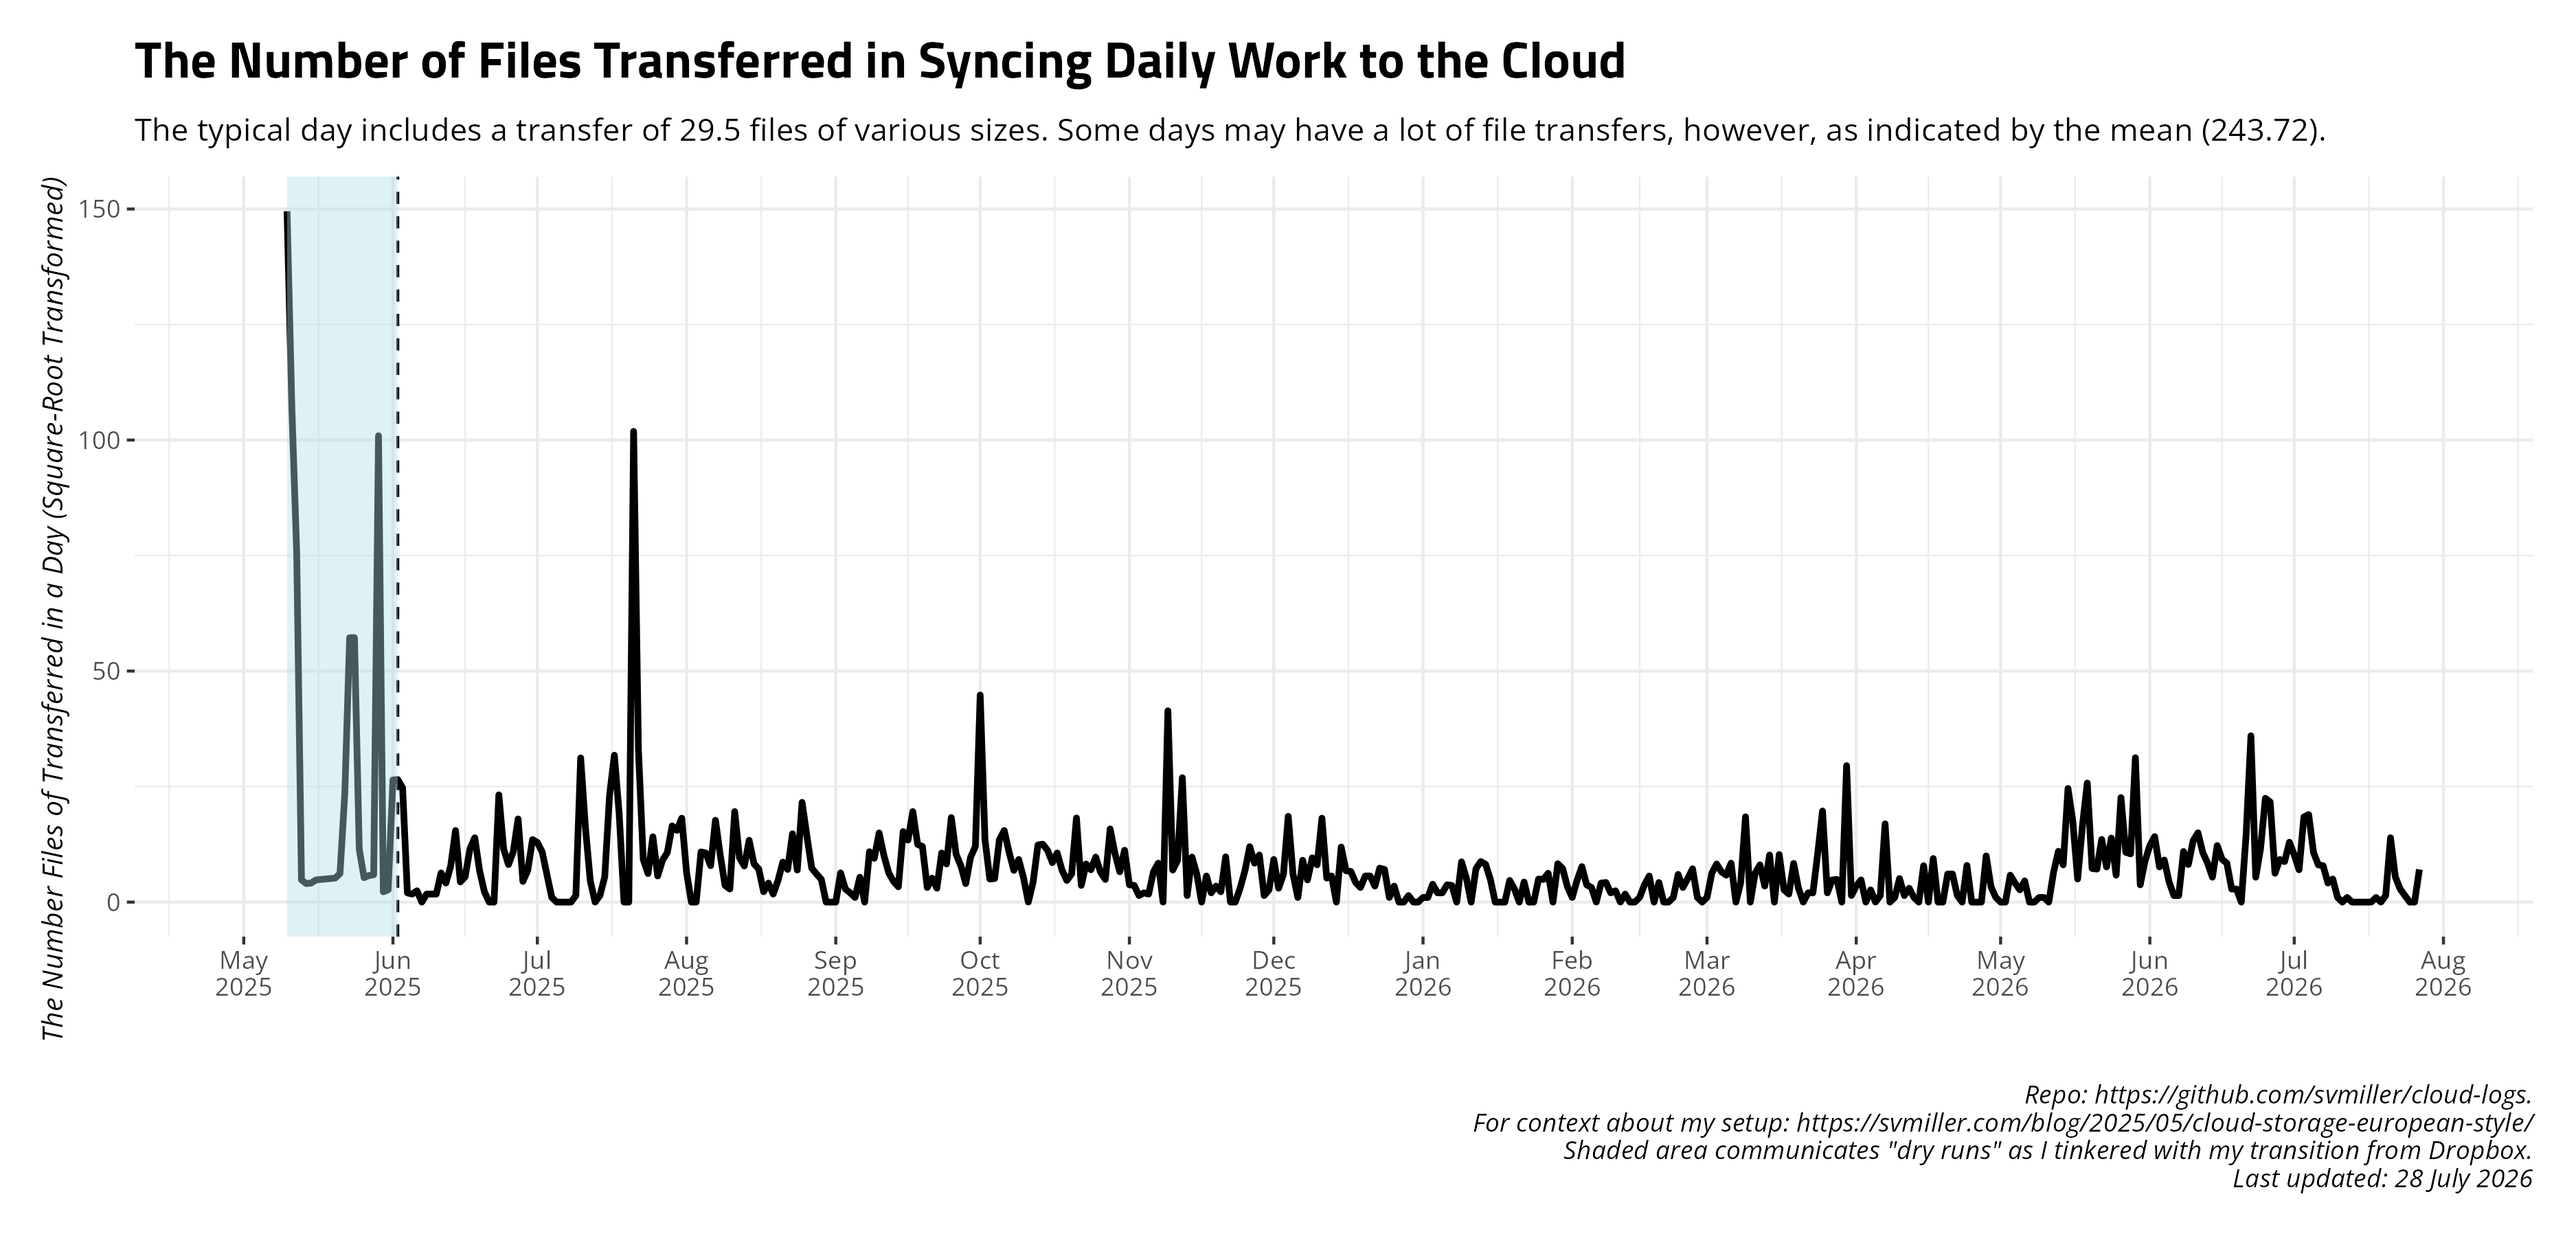
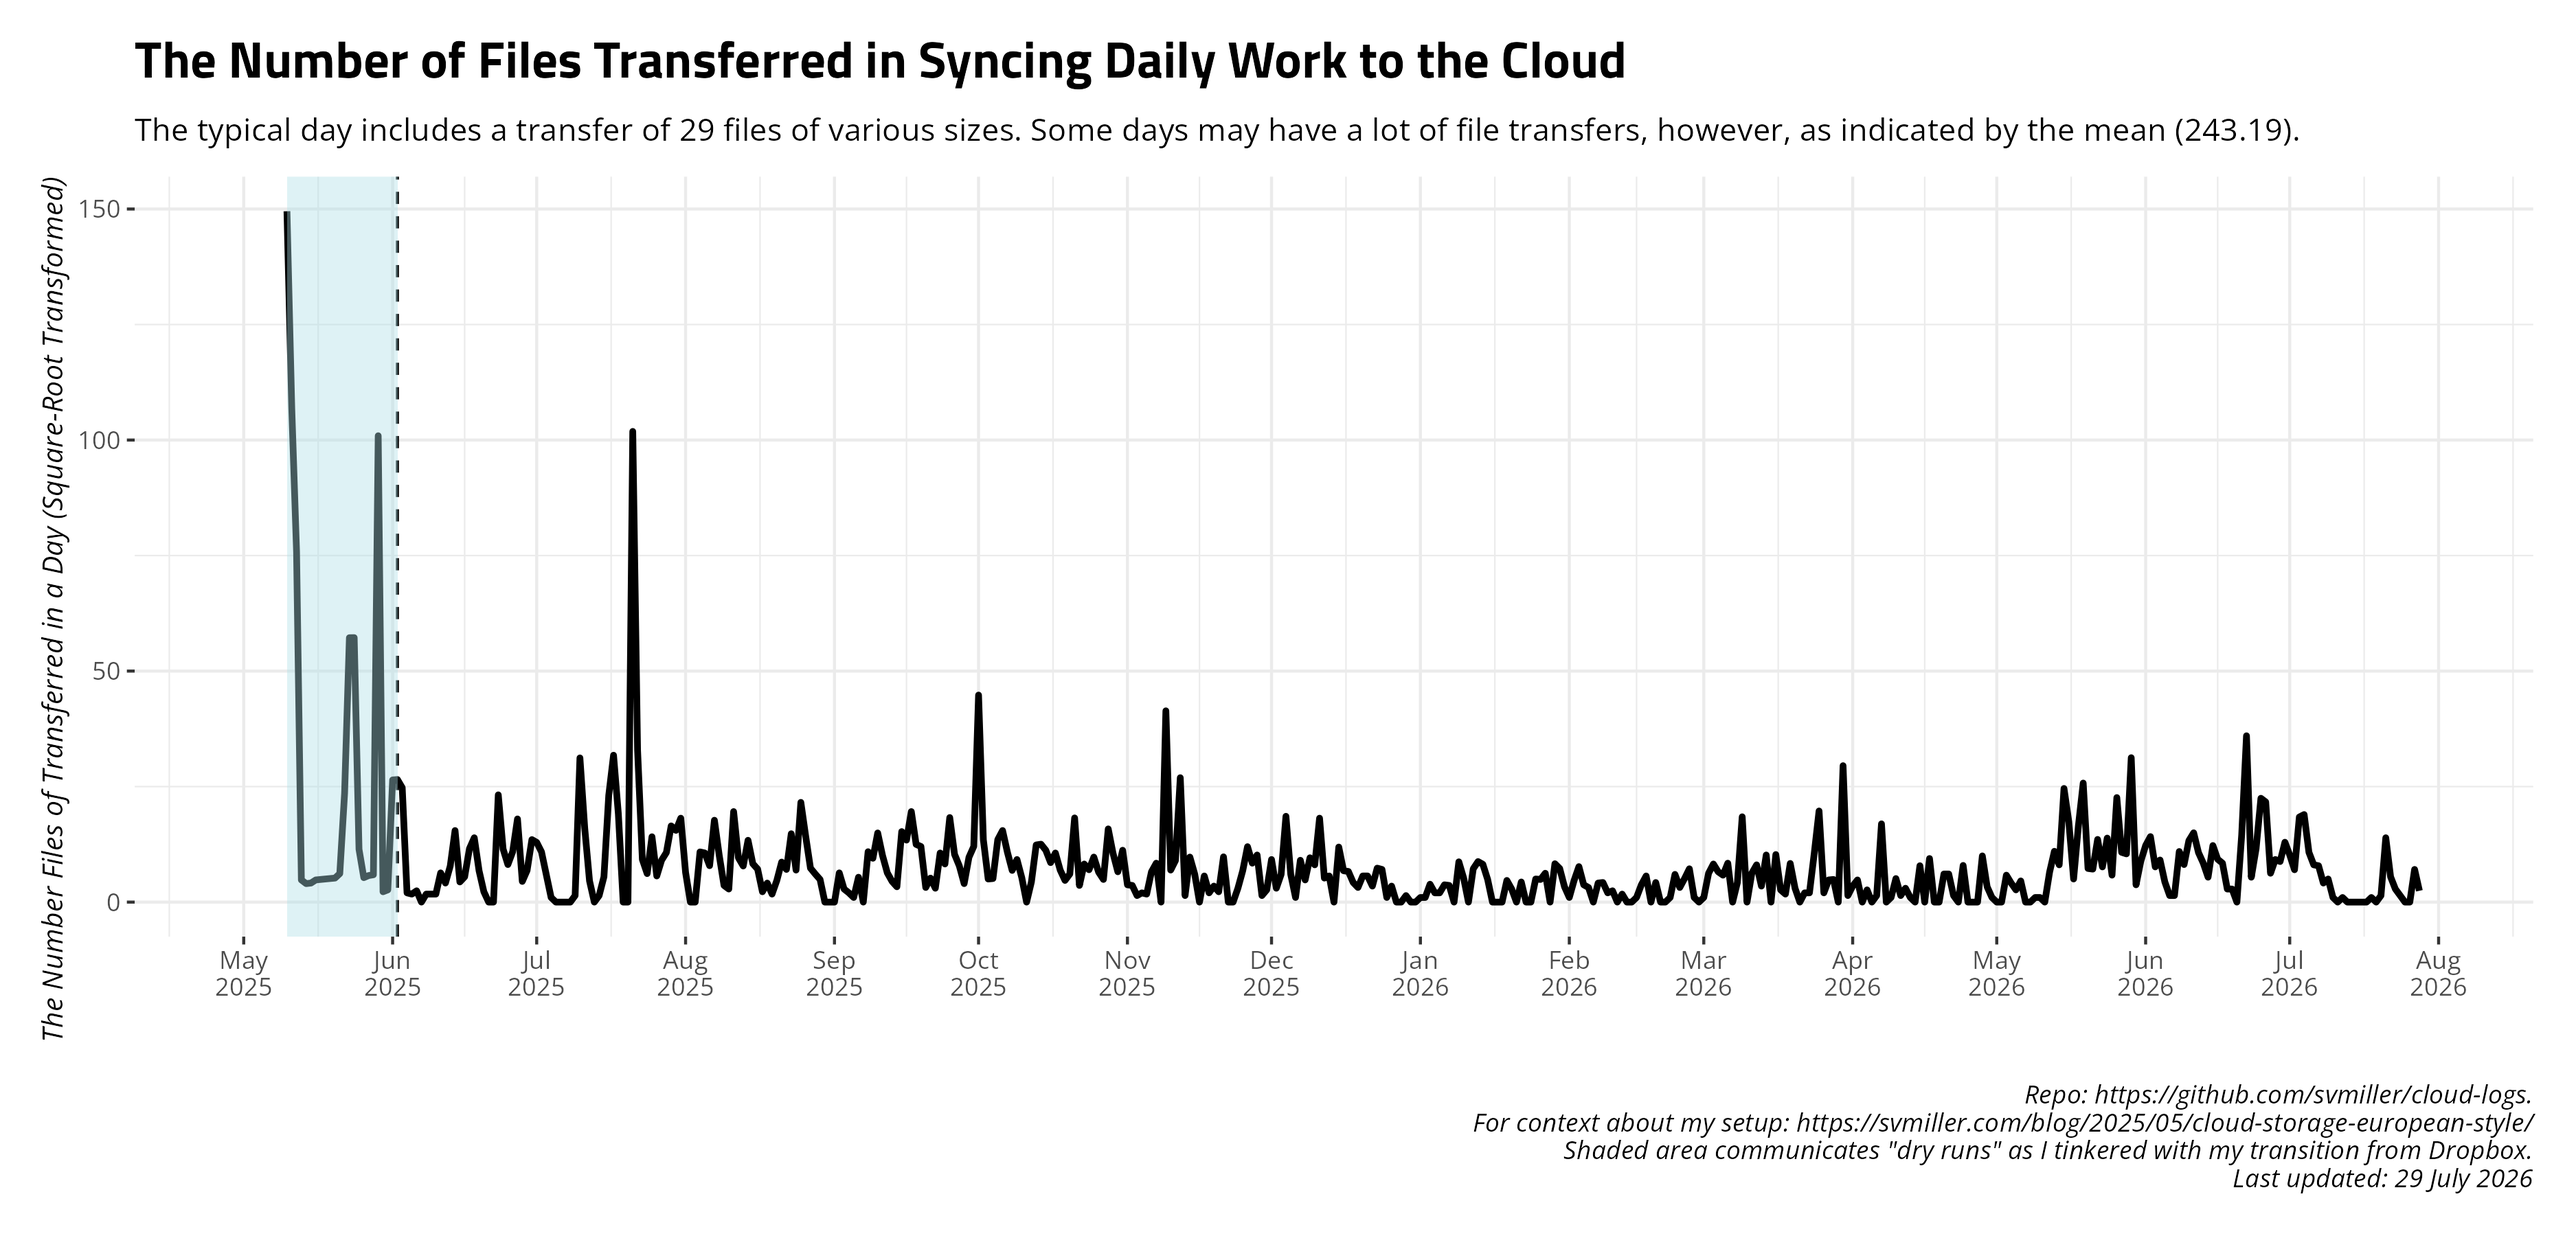
Date: 2026-07-29 09:00:31. Hi mom!

diff --git a/README.md b/README.md
@@ -25,19 +25,19 @@ and uploads to Github.
 ## Summary of Past 14 Days
 
     #> # A tibble: 14 × 4
-    #>    date       ftransfer stransfer   elapsed 
-    #>    <date>         <dbl> <chr>       <chr>   
-    #>  1 2026-07-14         0 <NA>        12m19.6s
-    #>  2 2026-07-15         0 <NA>        15m49.1s
-    #>  3 2026-07-16         0 <NA>        10m32.8s
-    #>  4 2026-07-17         0 <NA>        22m18.0s
-    #>  5 2026-07-18         1 926.506 KiB 5m44.6s 
-    #>  6 2026-07-19         0 <NA>        18m26.1s
-    #>  7 2026-07-20         2 59.563 KiB  5m46.9s 
-    #>  8 2026-07-21       194 766.281 KiB 4m40.3s 
-    #>  9 2026-07-22        30 85.817 KiB  4m41.8s 
-    #> 10 2026-07-23         8 9.150 MiB   9m39.1s 
-    #> 11 2026-07-24         2 65.241 KiB  4m46.2s 
-    #> 12 2026-07-25         0 <NA>        4m36.5s 
-    #> 13 2026-07-26         0 <NA>        21m4.7s 
-    #> 14 2026-07-27        50 17.862 MiB  4m40.5s
+    #>    date       ftransfer stransfer    elapsed 
+    #>    <date>         <dbl> <chr>        <chr>   
+    #>  1 2026-07-15         0 <NA>         15m49.1s
+    #>  2 2026-07-16         0 <NA>         10m32.8s
+    #>  3 2026-07-17         0 <NA>         22m18.0s
+    #>  4 2026-07-18         1 926.506 KiB  5m44.6s 
+    #>  5 2026-07-19         0 <NA>         18m26.1s
+    #>  6 2026-07-20         2 59.563 KiB   5m46.9s 
+    #>  7 2026-07-21       194 766.281 KiB  4m40.3s 
+    #>  8 2026-07-22        30 85.817 KiB   4m41.8s 
+    #>  9 2026-07-23         8 9.150 MiB    9m39.1s 
+    #> 10 2026-07-24         2 65.241 KiB   4m46.2s 
+    #> 11 2026-07-25         0 <NA>         4m36.5s 
+    #> 12 2026-07-26         0 <NA>         21m4.7s 
+    #> 13 2026-07-27        50 17.862 MiB   4m40.5s 
+    #> 14 2026-07-28         6 1023.222 KiB 4m44.8s
